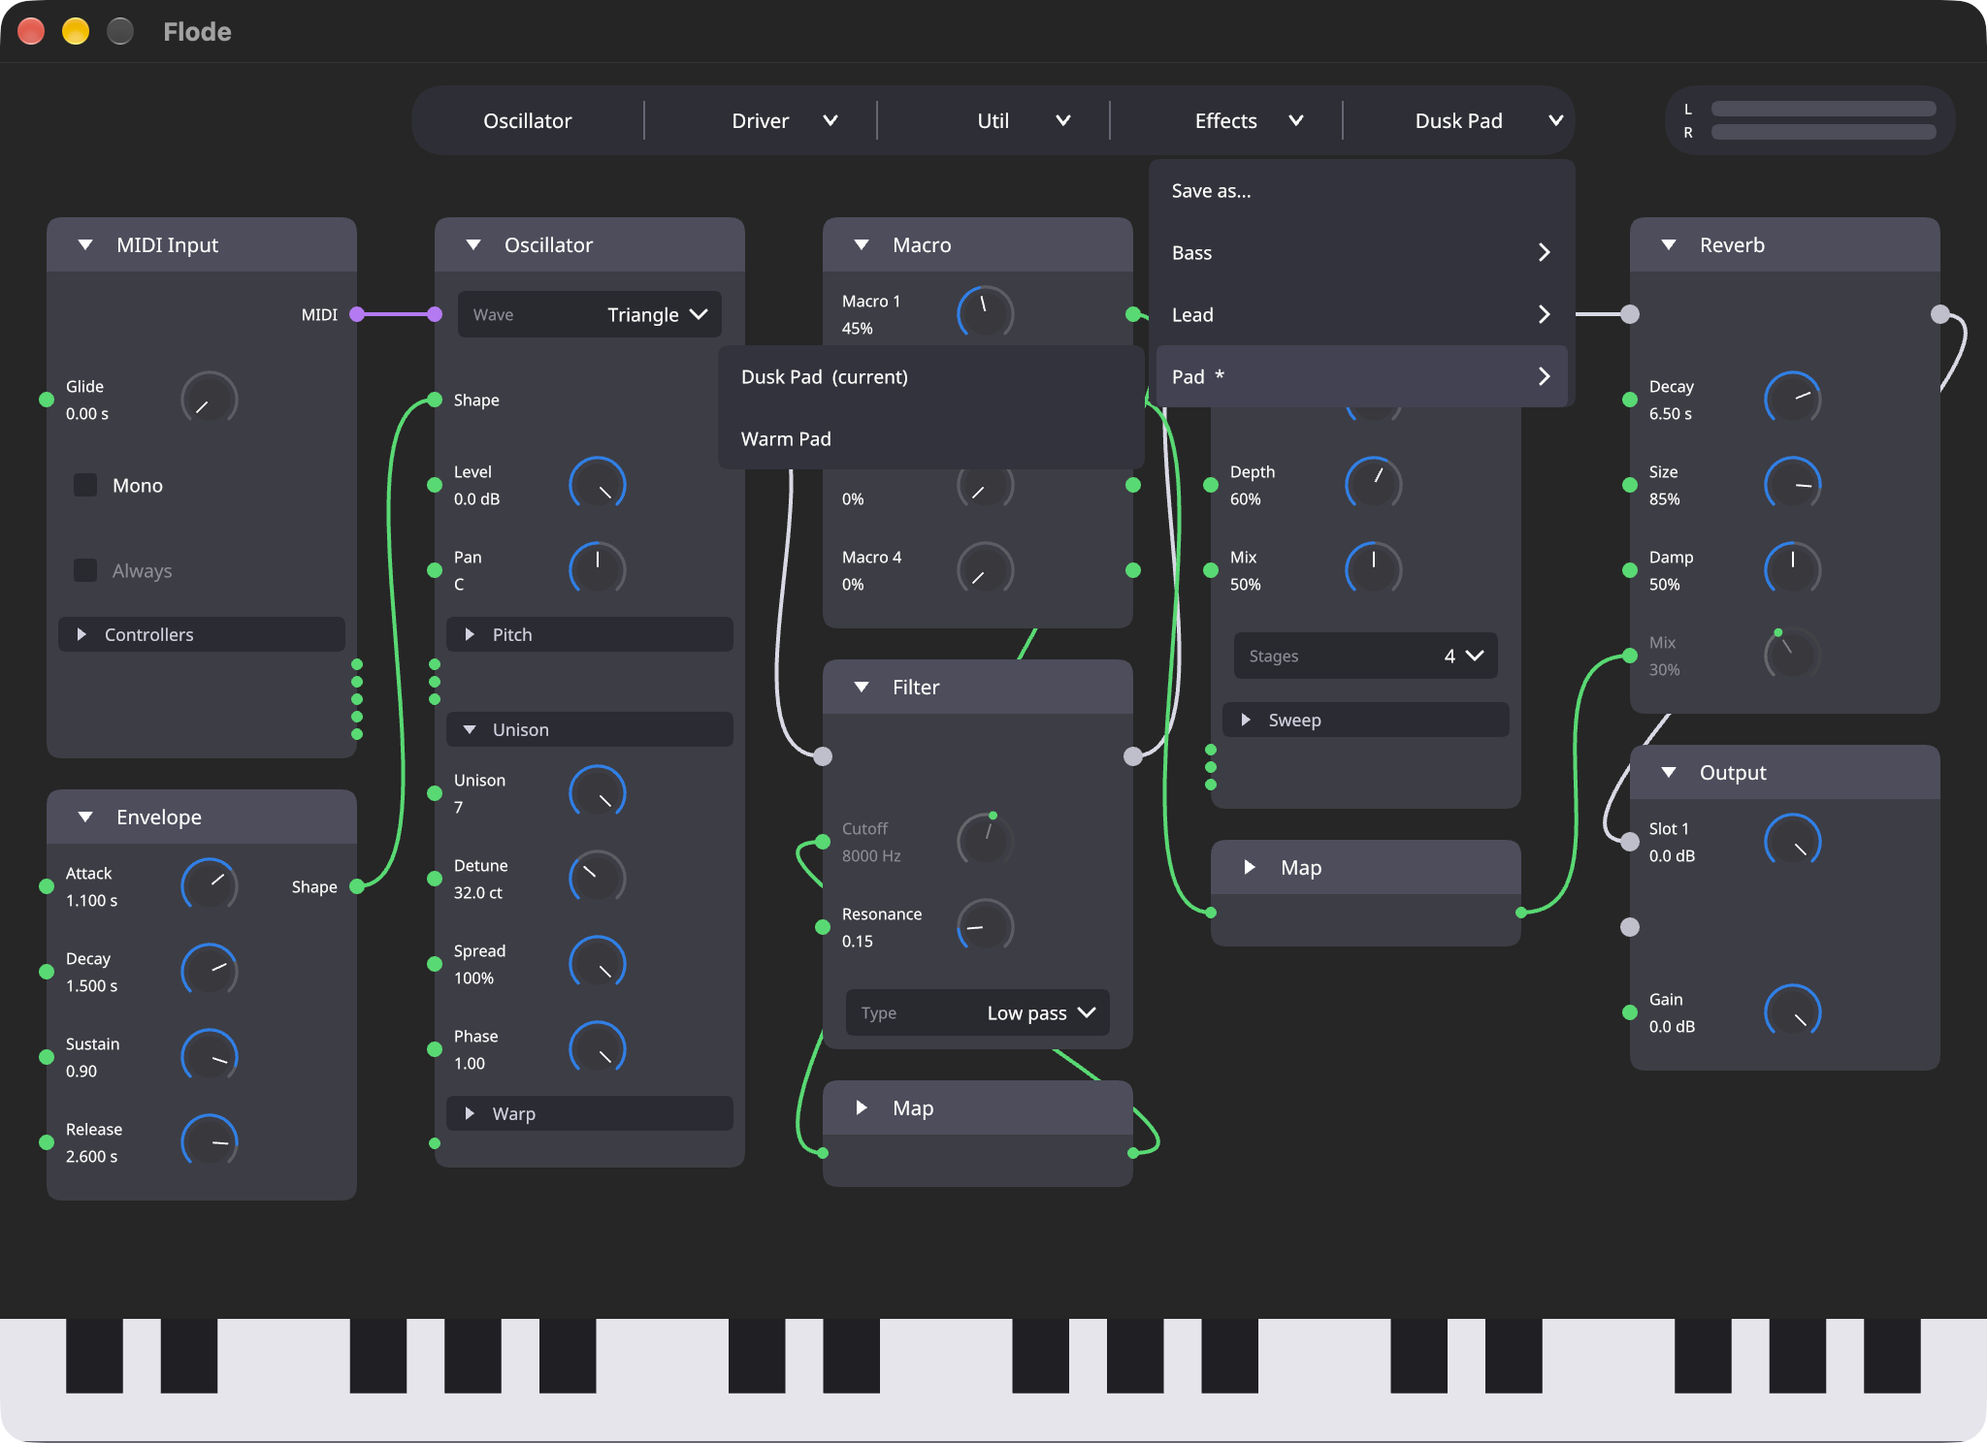
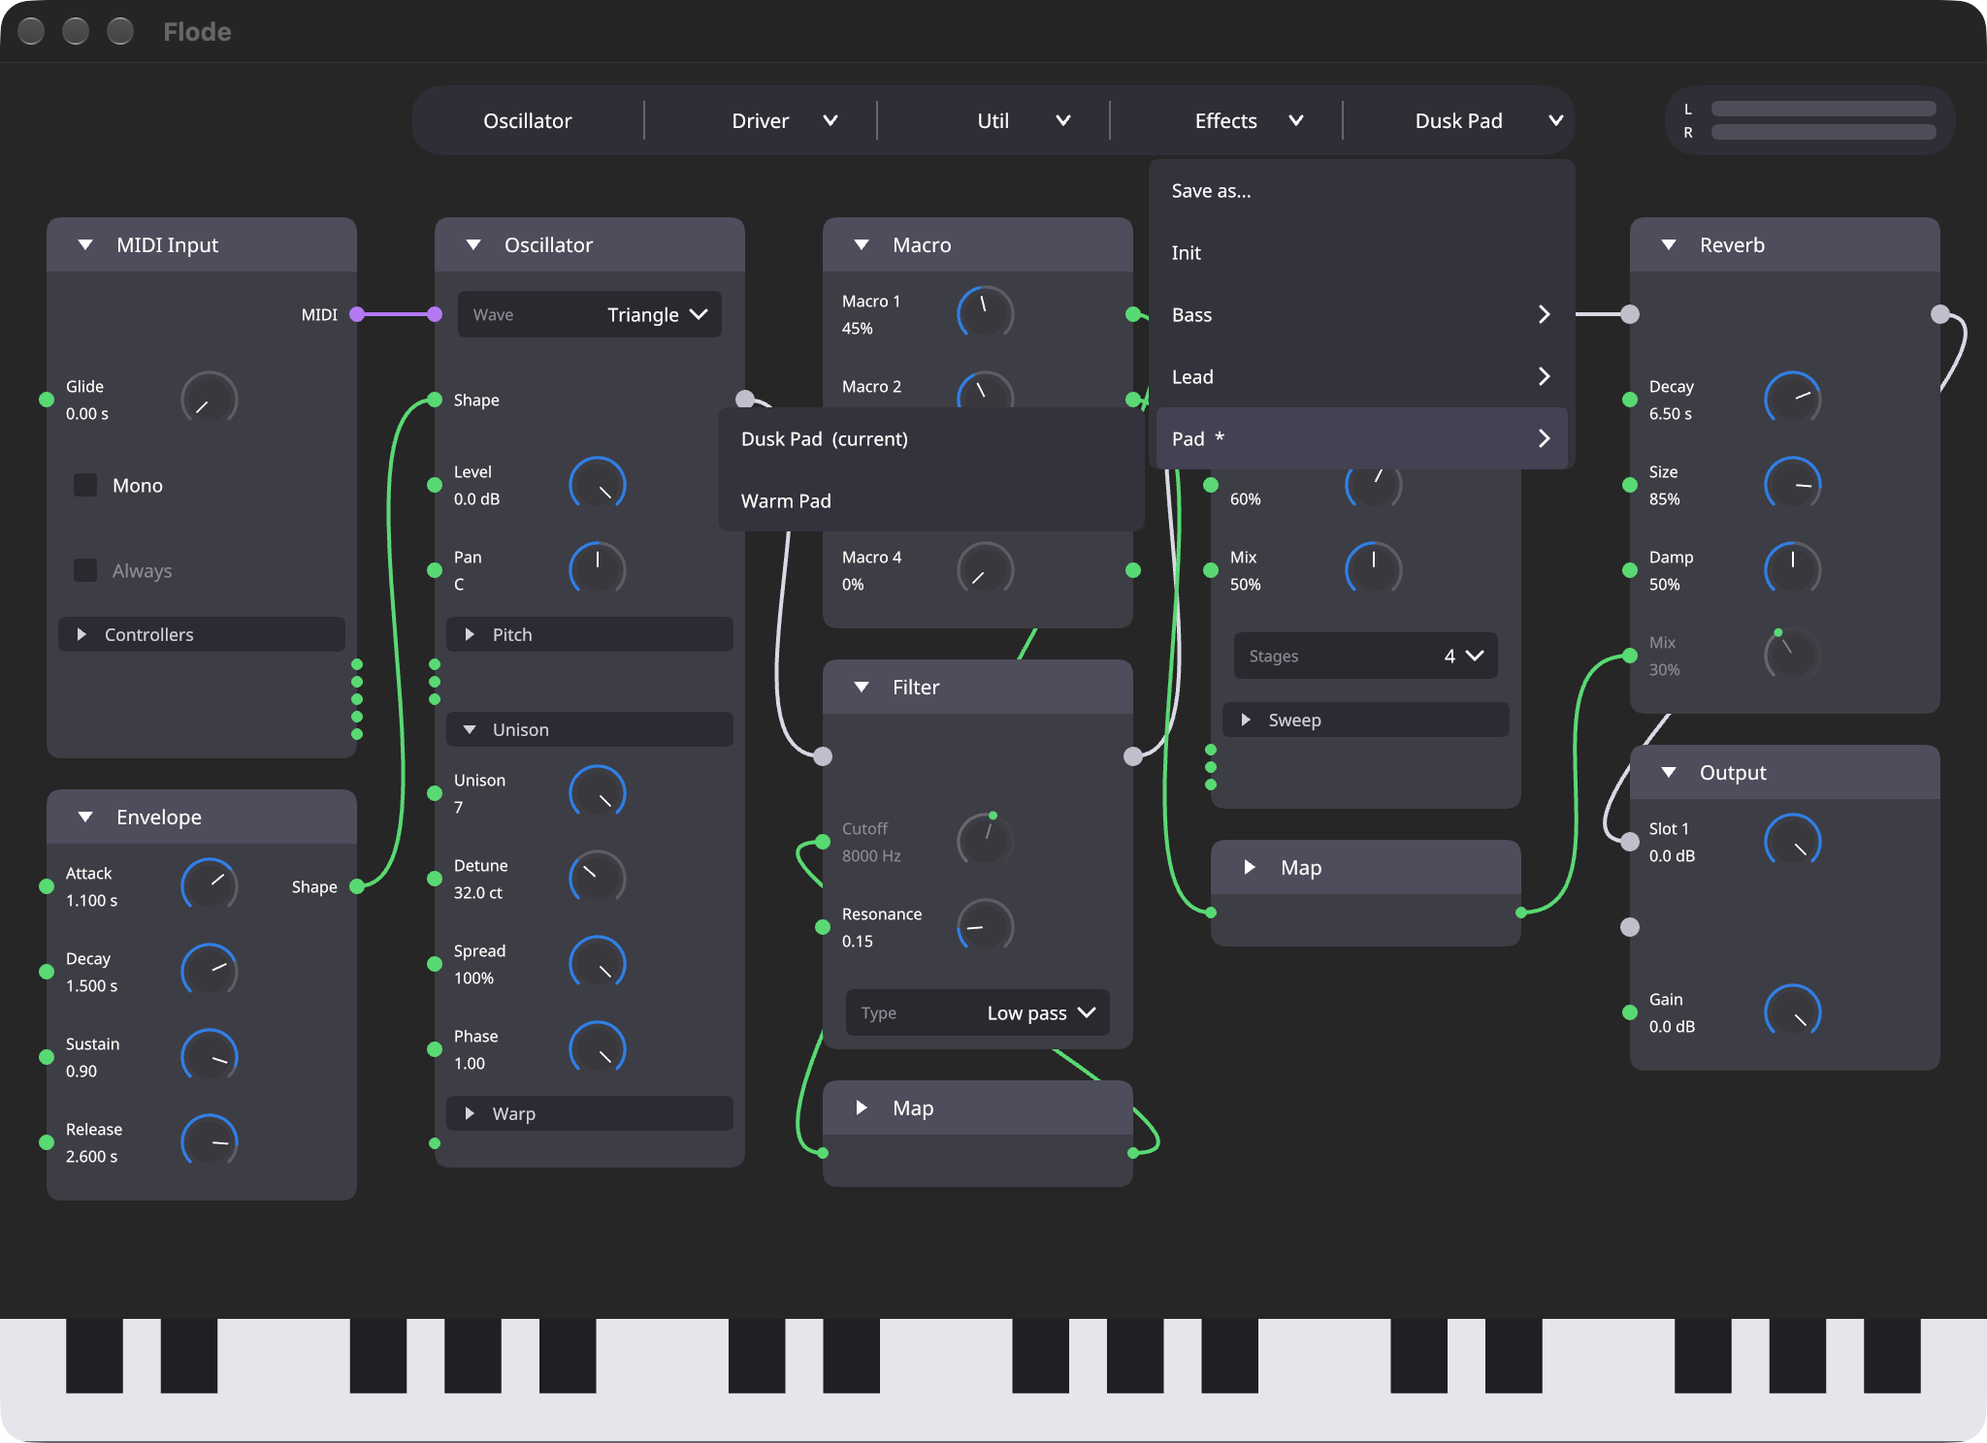
Add an Init row to the preset list
Init puts the starting patch back and resets the macro knobs. It drops unsaved changes without
asking. The menu screenshot and the README show the new row.

diff --git a/src/editor/tests.rs b/src/editor/tests.rs
@@ -1827,6 +1827,7 @@ mod preset_ui_tests {
     use nih_plug_iced::keyboard::{self, KeyCode, Modifiers};
     use nih_plug_iced::mouse;
     use nih_plug_iced::widget::canvas::{event::Event, Cursor, Program};
+    use nih_plug_iced::Vector;
     use std::path::PathBuf;
 
     fn bounds() -> Rectangle {
@@ -2025,7 +2026,7 @@ mod preset_ui_tests {
             editor.graph.preset_list.as_ref().map(|m| m.library.clone()),
             Some(library.clone())
         );
-        click(&mut editor, list_row(&library, 1));
+        click(&mut editor, list_row(&library, 2));
         assert_eq!(editor.graph.preset_list.as_ref().unwrap().open, Some(0));
         let message = click(&mut editor, sub_row(&library, 0, 0));
         assert!(matches!(message, Some(Message::GraphChanged)));
@@ -2222,20 +2223,22 @@ mod preset_ui_tests {
         };
         let at = |row: usize| preset_row_at(bounds(), &menu, list_row(&library, row));
         assert_eq!(at(0), Some(PresetRow::SaveAs));
-        assert_eq!(at(1), Some(PresetRow::Category(0)));
-        assert_eq!(at(2), Some(PresetRow::Category(1)));
-        assert_eq!(at(3), Some(PresetRow::Loose(0)));
-        assert_eq!(at(4), Some(PresetRow::Loose(1)));
-        assert_eq!(at(5), None);
+        assert_eq!(at(1), Some(PresetRow::Init));
+        assert_eq!(at(2), Some(PresetRow::Category(0)));
+        assert_eq!(at(3), Some(PresetRow::Category(1)));
+        assert_eq!(at(4), Some(PresetRow::Loose(0)));
+        assert_eq!(at(5), Some(PresetRow::Loose(1)));
+        assert_eq!(at(6), None);
 
+        // With none saved, the two actions are still there, and the row under them is a note.
         let empty = PresetMenu {
             library: Library::default(),
             open: None,
         };
-        assert_eq!(
-            preset_row_at(bounds(), &empty, list_row(&empty.library, 1)),
-            None
-        );
+        let at_empty = |row: usize| preset_row_at(bounds(), &empty, list_row(&empty.library, row));
+        assert_eq!(at_empty(0), Some(PresetRow::SaveAs));
+        assert_eq!(at_empty(1), Some(PresetRow::Init));
+        assert_eq!(at_empty(2), None);
         assert_eq!(shorten("Short"), "Short");
         assert_eq!(shorten("A very long preset name").chars().count(), 10);
     }
@@ -2263,9 +2266,9 @@ mod preset_ui_tests {
             assert!(sub.y + sub.height <= bounds().height - crate::editor::piano::STRIP_HEIGHT);
             assert!(sub.x >= 0.0 && sub.x + sub.width <= bounds().width);
         }
-        // The Bass submenu starts level with the Bass row.
+        // The Bass submenu starts level with the Bass row, under the two action rows.
         let sub = submenu_bounds(bounds(), &library, 0);
-        assert_eq!(sub.y, list.y + MENU_ITEM_HEIGHT);
+        assert_eq!(sub.y, list.y + 2.0 * MENU_ITEM_HEIGHT);
         // With no submenu open, a point where it would be is not a row.
         let closed = PresetMenu {
             library: library.clone(),
@@ -2322,7 +2325,7 @@ mod preset_ui_tests {
         };
         let open = |editor: &NodeEditor| editor.graph.preset_list.as_ref().unwrap().open;
 
-        move_to(&mut editor, list_row(&library, 1));
+        move_to(&mut editor, list_row(&library, 2));
         assert_eq!(open(&editor), Some(0));
         // Off the list and onto the submenu, it stays.
         move_to(&mut editor, sub_row(&library, 0, 0));
@@ -2330,15 +2333,63 @@ mod preset_ui_tests {
         move_to(&mut editor, Point::new(5.0, 400.0));
         assert_eq!(open(&editor), Some(0));
         // Onto the loose preset's row, it closes.
-        move_to(&mut editor, list_row(&library, 2));
+        move_to(&mut editor, list_row(&library, 3));
         assert_eq!(open(&editor), None);
 
         // A click on a category row opens it, and a second click closes it.
-        click(&mut editor, list_row(&library, 1));
+        click(&mut editor, list_row(&library, 2));
         assert_eq!(open(&editor), Some(0));
-        click(&mut editor, list_row(&library, 1));
+        click(&mut editor, list_row(&library, 2));
         assert_eq!(open(&editor), None);
         assert!(editor.graph.preset_list.is_some());
+    }
+
+    /// The Init row puts the starting graph back, drops what was on the canvas, forgets the current
+    /// preset, sets the macros back, and keeps the view and the preset folder.
+    #[test]
+    fn init_goes_back_to_the_default_patch() {
+        let dir = TempDir::new("init");
+        let mut seed = graph_in(&dir);
+        save_through_the_ui(&mut seed, "Keeper", "Bass", [0.2; 4]);
+
+        // A canvas that has wandered off: a preset loaded, a node added, the view moved.
+        let mut graph = graph_in(&dir);
+        graph.load_preset("Bass", "Keeper");
+        graph.add_node(NodeKind::Reverb, Point::new(500.0, 400.0));
+        graph.add_node(NodeKind::Delay, Point::new(700.0, 400.0));
+        graph.view.offset = Vector::new(40.0, 25.0);
+        graph.macro_edits.clear();
+        let library = library_of(&dir);
+
+        let mut editor = NodeEditor::new(&mut graph, ControlLevels::default(), [0; 2], [0.0; 2]);
+        click(&mut editor, presets_button());
+        let message = click(&mut editor, list_row(&library, 1));
+        assert!(matches!(message, Some(Message::GraphChanged)));
+
+        let default = Graph::default();
+        assert!(editor.graph.preset_list.is_none());
+        assert_eq!(editor.graph.nodes.len(), default.nodes.len());
+        assert!(editor.graph.patch() == default.patch());
+        assert_eq!(editor.graph.preset_name, None);
+        assert_eq!(editor.graph.preset_category, "");
+        assert_eq!(editor.graph.view.offset, Vector::new(40.0, 25.0));
+        assert_eq!(editor.graph.preset_dir.as_deref(), Some(dir.0.as_path()));
+        // The host is told to put every macro back to its starting value.
+        let sets: Vec<_> = editor
+            .graph
+            .macro_edits
+            .iter()
+            .filter_map(|edit| match edit {
+                MacroEdit::Set(i, v) => Some((*i, *v)),
+                _ => None,
+            })
+            .collect();
+        assert_eq!(sets, [(0, 0.0), (1, 0.0), (2, 0.0), (3, 0.0)]);
+        // The next save starts from a blank name.
+        editor.graph.start_name_entry();
+        assert_eq!(editor.graph.name_entry.as_ref().unwrap().name, "");
+        // And the preset on disk is untouched.
+        assert!(crate::presets::load_in(&dir.0, "Bass", "Keeper").is_ok());
     }
 
     /// A loose preset loads from the main list.
@@ -2353,7 +2404,7 @@ mod preset_ui_tests {
         let mut graph = graph_in(&dir);
         let mut editor = NodeEditor::new(&mut graph, ControlLevels::default(), [0; 2], [0.0; 2]);
         click(&mut editor, presets_button());
-        click(&mut editor, list_row(&library, 1));
+        click(&mut editor, list_row(&library, 2));
         assert!(editor.graph.nodes.iter().any(|n| n.kind == NodeKind::Delay));
         assert_eq!(editor.graph.preset_name.as_deref(), Some("Plain"));
         assert_eq!(editor.graph.preset_category, "");

diff --git a/src/editor/menus.rs b/src/editor/menus.rs
@@ -32,6 +32,8 @@ pub(super) const PILL_ITEMS: [PillItem; 5] = [
 pub(super) enum PresetRow {
     /// Opens the box that names and saves the current graph.
     SaveAs,
+    /// Goes back to the graph a new instance starts with.
+    Init,
     /// A category, which opens its submenu. The position is in `library.categories`.
     Category(usize),
     /// A preset with no category. The position is in `library.loose`.
@@ -61,17 +63,20 @@ fn preset_room(bounds: Rectangle) -> usize {
     (room.floor() as usize).max(4)
 }
 
-/// How many categories and how many loose presets the main list shows. The save entry takes the
-/// first row, then the categories, then as many loose presets as fit.
+/// The rows at the top of the preset list that are not presets: "Save as..." and "Init".
+pub(super) const PRESET_ACTION_ROWS: usize = 2;
+
+/// How many categories and how many loose presets the main list shows. The two action rows come
+/// first, then the categories, then as many loose presets as fit.
 pub(super) fn preset_rows_shown(bounds: Rectangle, library: &Library) -> (usize, usize) {
-    let room = preset_room(bounds) - 1;
+    let room = preset_room(bounds) - PRESET_ACTION_ROWS;
     let categories = library.categories.len().min(room);
     let loose = library.loose.len().min(room - categories);
     (categories, loose)
 }
 
-/// The list under the Presets button: the save entry, the categories, then the presets that have
-/// no category. With none saved it has a row that says so.
+/// The list under the Presets button: the save and init entries, the categories, then the presets
+/// that have no category. With none saved it has a row that says so.
 pub(super) fn preset_list_bounds(bounds: Rectangle, library: &Library) -> Rectangle {
     let index = PILL_ITEMS
         .iter()
@@ -79,7 +84,7 @@ pub(super) fn preset_list_bounds(bounds: Rectangle, library: &Library) -> Rectan
         .unwrap_or(0);
     let segment = pill_segment(bounds, index);
     let (categories, loose) = preset_rows_shown(bounds, library);
-    let rows = 1 + (categories + loose).max(1);
+    let rows = PRESET_ACTION_ROWS + (categories + loose).max(1);
     let width = segment.width.max(PRESET_LIST_MIN_WIDTH);
     Rectangle {
         // The list lines up with the pill's right end, so it stays inside the window.
@@ -112,7 +117,7 @@ pub(super) fn submenu_bounds(bounds: Rectangle, library: &Library, category: usi
     } else {
         list.x - width - LIST_GAP
     };
-    let level = list.y + (1 + category) as f32 * MENU_ITEM_HEIGHT;
+    let level = list.y + (PRESET_ACTION_ROWS + category) as f32 * MENU_ITEM_HEIGHT;
     let lowest = bounds.height - super::piano::STRIP_HEIGHT - height;
     Rectangle {
         x,
@@ -145,8 +150,13 @@ pub(super) fn preset_row_at(
     let (categories, loose) = preset_rows_shown(bounds, library);
     match ((point.y - list.y) / MENU_ITEM_HEIGHT) as usize {
         0 => Some(PresetRow::SaveAs),
-        row if row <= categories => Some(PresetRow::Category(row - 1)),
-        row if row <= categories + loose => Some(PresetRow::Loose(row - 1 - categories)),
+        1 => Some(PresetRow::Init),
+        row if row < PRESET_ACTION_ROWS + categories => {
+            Some(PresetRow::Category(row - PRESET_ACTION_ROWS))
+        }
+        row if row < PRESET_ACTION_ROWS + categories + loose => {
+            Some(PresetRow::Loose(row - PRESET_ACTION_ROWS - categories))
+        }
         _ => None,
     }
 }

diff --git a/src/editor/graph.rs b/src/editor/graph.rs
@@ -401,24 +401,38 @@ impl Graph {
                 return false;
             }
         };
-        // Only the nodes and wires change. The view, the piano's held keys, and where presets
-        // live stay as they were.
+        self.replace_with(Graph::from_saved(&preset.graph), preset.macros);
+        self.preset_name = Some(preset.name.clone());
+        self.preset_category = preset.category.clone();
+        self.say(format!("Loaded {}", preset.name));
+        true
+    }
+
+    /// Goes back to the graph a new instance starts with, and sets the macro knobs back to their
+    /// starting values. Whatever was on the canvas is dropped, saved or not, and no preset is
+    /// current afterward.
+    pub(super) fn init_default(&mut self) {
+        let macros = KnobId::MACROS.map(KnobId::default_normalized);
+        self.replace_with(Graph::default(), macros);
+        self.say("Back to the default patch");
+    }
+
+    /// Swaps in `fresh` for the nodes and wires, and sends `macros` to the host. The view, the
+    /// piano's held keys, and where presets live stay as they were, and so do the menus' state,
+    /// which is closed.
+    fn replace_with(&mut self, fresh: Graph, macros: [f32; MACRO_COUNT]) {
         let view = self.view;
         let piano = std::mem::take(&mut self.piano);
         let dir = self.preset_dir.clone();
-        *self = Graph::from_saved(&preset.graph);
+        *self = fresh;
         self.view = view;
         self.piano = piano;
         self.preset_dir = dir;
-        self.preset_name = Some(preset.name.clone());
-        self.preset_category = preset.category.clone();
-        for (index, &value) in preset.macros.iter().enumerate() {
+        for (index, &value) in macros.iter().enumerate() {
             self.macro_edits.push(MacroEdit::Begin(index));
             self.macro_edits.push(MacroEdit::Set(index, value));
             self.macro_edits.push(MacroEdit::End(index));
         }
-        self.say(format!("Loaded {}", preset.name));
-        true
     }
 
     /// Which macro a knob on a node is, or None for any other knob.

diff --git a/src/editor/draw.rs b/src/editor/draw.rs
@@ -941,14 +941,22 @@ pub(super) fn draw_preset_list(frame: &mut Frame, bounds: Rectangle, graph: &Gra
     let (categories, loose) = preset_rows_shown(bounds, library);
 
     list_row_text(frame, list, 0, "Save as...".to_string(), TEXT_COLOR);
+    list_row_text(frame, list, 1, "Init".to_string(), TEXT_COLOR);
     if library.is_empty() {
-        list_row_text(frame, list, 1, "No presets yet".to_string(), DIM_TEXT_COLOR);
+        list_row_text(
+            frame,
+            list,
+            PRESET_ACTION_ROWS,
+            "No presets yet".to_string(),
+            DIM_TEXT_COLOR,
+        );
     }
     for (index, category) in library.categories.iter().take(categories).enumerate() {
+        let row_number = PRESET_ACTION_ROWS + index;
         if menu.open == Some(index) {
             let row = Rectangle {
                 x: list.x + 4.0,
-                y: list.y + (index + 1) as f32 * MENU_ITEM_HEIGHT,
+                y: list.y + row_number as f32 * MENU_ITEM_HEIGHT,
                 width: list.width - 8.0,
                 height: MENU_ITEM_HEIGHT,
             };
@@ -964,8 +972,8 @@ pub(super) fn draw_preset_list(frame: &mut Frame, bounds: Rectangle, graph: &Gra
         } else {
             category.name.clone()
         };
-        list_row_text(frame, list, index + 1, content, TEXT_COLOR);
-        draw_submenu_arrow(frame, list, index + 1);
+        list_row_text(frame, list, row_number, content, TEXT_COLOR);
+        draw_submenu_arrow(frame, list, row_number);
     }
     for (index, name) in library.loose.iter().take(loose).enumerate() {
         let current =
@@ -975,7 +983,8 @@ pub(super) fn draw_preset_list(frame: &mut Frame, bounds: Rectangle, graph: &Gra
         } else {
             name.clone()
         };
-        list_row_text(frame, list, 1 + categories + index, content, TEXT_COLOR);
+        let row_number = PRESET_ACTION_ROWS + categories + index;
+        list_row_text(frame, list, row_number, content, TEXT_COLOR);
     }
     let hidden = (library.categories.len() - categories) + (library.loose.len() - loose);
     if hidden > 0 {

diff --git a/src/editor/canvas.rs b/src/editor/canvas.rs
@@ -110,6 +110,11 @@ impl<'a> NodeEditor<'a> {
                     self.graph.start_name_entry();
                     return (event::Status::Captured, Some(Message::GraphChanged));
                 }
+                // Init drops what is on the canvas for the starting graph, saved or not.
+                Some(PresetRow::Init) => {
+                    self.graph.init_default();
+                    return (event::Status::Captured, Some(Message::GraphChanged));
+                }
                 // A press on a category opens its submenu, or closes it if it is open.
                 Some(PresetRow::Category(index)) => {
                     menu.open = (menu.open != Some(index)).then_some(index);
@@ -368,7 +373,7 @@ impl<'a> NodeEditor<'a> {
         };
         let open = match preset_row_at(bounds, menu, screen) {
             Some(PresetRow::Category(index)) => Some(index),
-            Some(PresetRow::SaveAs | PresetRow::Loose(_)) => None,
+            Some(PresetRow::SaveAs | PresetRow::Init | PresetRow::Loose(_)) => None,
             Some(PresetRow::Sub(..)) | None => menu.open,
         };
         let changed = open != menu.open;

diff --git a/README.md b/README.md
@@ -114,8 +114,9 @@ Presets are files in `~/Library/Application Support/Flode/Presets`, one per name
 graph and the four macro values. A category is a folder inside that one, so `Bass/Reese.flode` is
 the Reese preset in the Bass category.
 
-The Presets button opens a list with "Save as...", then the categories, then any presets with none.
-A category opens a submenu of its presets when you hover it or click it. "Save as..." opens a box
+The Presets button opens a list with "Save as..." and "Init", then the categories, then any presets
+with none. "Init" goes back to the starting patch and resets the macros, and it does not ask about
+unsaved changes. A category opens a submenu of its presets when you hover it or click it. "Save as..." opens a box
 with a name and a category. The existing categories show as chips you can click, or step through
 with the up and down keys, so a typo does not make a new folder. A category that does not exist
 yet is tagged "new". Saving under a name that already exists replaces that preset.
